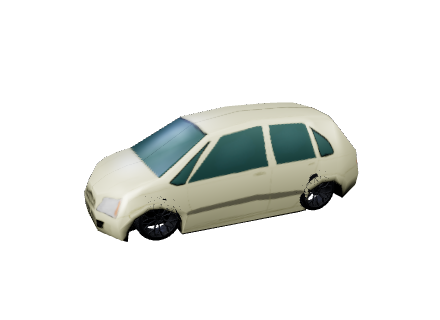
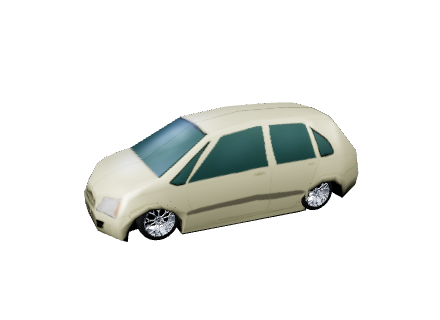
feat(3d): jantes gris métallique + meilleur placement des roues (par extrémités)
Jantes : la roue (un seul mesh) est découpée en 2 groupes par distance radiale
(pneu = anneau extérieur, jante = disque central) -> 2 matériaux : pneu noir mat +
jante gris métallique brillante (metalness 0.9). Fait à la volée dans addWheels
(aperçu pos-car3d + hub hud3d-map).

Placement : les roues sont désormais calées par rapport aux EXTRÉMITÉS de la
carrosserie (inset 19% depuis l'avant et l'arrière) au lieu d'un empattement
symétrique depuis le centre -> gère les porte-à-faux asymétriques (compactes
cab-forward où la roue avant débordait). Rayon réduit à ~7% de la longueur.

Réglé et vérifié par captures d'écran d'un simulateur fidèle (SUV / berline /
compacte / citadine) : roues bien dimensionnées, dans les passages, jantes grises.
Vignettes des 16 régénérées. Pipeline app testé : 0 erreur.

Changed region(s): [[0.2955, 0.625, 0.4136, 0.75], [0.6795, 0.5312, 0.7682, 0.6562]]

diff --git a/public/pos/pos-car3d.js b/public/pos/pos-car3d.js
@@ -411,25 +411,44 @@
        les GLB normalisés qui portent une rotation (uprightCar), on passe un wrapper
        SANS rotation comme target -> sinon les positions calculées en repère monde
        sont décalées par la rotation et les roues « flottent » à côté. */
+    /* sépare la roue (un seul mesh) en 2 groupes : pneu (rayon élevé) + jante (rayon
+       faible), pour appliquer 2 matériaux (pneu noir mat / jante gris métallique). */
+    function splitWheelGeom(geom) {
+      geom = geom.index ? geom : geom.toNonIndexed();
+      var pos = geom.attributes.position, idx = geom.index;
+      if (!idx) { var ai = []; for (var i0 = 0; i0 < pos.count; i0++) ai.push(i0); geom.setIndex(ai); idx = geom.index; }
+      var maxR = 0; for (var i = 0; i < pos.count; i++) { var y = pos.getY(i), z = pos.getZ(i); var rr = Math.sqrt(y * y + z * z); if (rr > maxR) maxR = rr; }
+      var thr = maxR * 0.74, arr = idx.array, tire = [], rim = [];
+      for (var t = 0; t < arr.length; t += 3) {
+        var A = arr[t], B = arr[t + 1], C = arr[t + 2];
+        var my = (pos.getY(A) + pos.getY(B) + pos.getY(C)) / 3, mz = (pos.getZ(A) + pos.getZ(B) + pos.getZ(C)) / 3;
+        if (Math.sqrt(my * my + mz * mz) >= thr) tire.push(A, B, C); else rim.push(A, B, C);
+      }
+      geom.setIndex(tire.concat(rim)); geom.clearGroups();
+      geom.addGroup(0, tire.length, 0); geom.addGroup(tire.length, rim.length, 1);
+      return geom;
+    }
     function addWheels(model, target) {
       target = target || model;
       model.updateMatrixWorld(true);
       var b = new THREE.Box3().setFromObject(model), s = b.getSize(new THREE.Vector3()), c = b.getCenter(new THREE.Vector3());
-      var r = Math.min(s.y * 0.42, s.z * 0.080), wx = s.x * 0.42, wz = s.z * 0.31;  // rayon ~8% de la longueur (cap hauteur) -> roues calées dans les passages
-      var mat = track(new THREE.MeshStandardMaterial({ color: 0x15171c, roughness: 0.5, metalness: 0.55, side: THREE.DoubleSide }));
-      var slots = [[-wx, wz], [wx, wz], [-wx, -wz], [wx, -wz]];
+      var r = Math.min(s.y * 0.42, s.z * 0.072), wx = s.x * 0.42, IN = 0.19;         // rayon ~7% de la longueur
+      var fz = b.max.z - IN * s.z, rz = b.min.z + IN * s.z;                          // roues calées depuis les EXTRÉMITÉS (porte-à-faux asymétriques)
+      var tireMat = track(new THREE.MeshStandardMaterial({ color: 0x0e0f12, roughness: 0.85, metalness: 0.2, side: THREE.DoubleSide }));
+      var rimMat = track(new THREE.MeshStandardMaterial({ color: 0xb9bfc9, roughness: 0.35, metalness: 0.9, envMapIntensity: 1.2, side: THREE.DoubleSide })); // jante gris métallique
+      var slots = [[-wx, fz], [wx, fz], [-wx, rz], [wx, rz]];
       loadWheelProto().then(function (proto) {
         slots.forEach(function (p) {
           var w = proto.clone(true);
-          w.traverse(function (o) { if (o.isMesh) { o.geometry = o.geometry.clone(); track(o.geometry); o.material = mat; } });
+          w.traverse(function (o) { if (o.isMesh) { o.geometry = splitWheelGeom(o.geometry.clone()); track(o.geometry); o.material = [tireMat, rimMat]; } });
           w.scale.setScalar(2 * r);                    // GLB diamètre 1 -> diamètre 2r ; axe déjà sur X
           w.rotation.y = p[0] < 0 ? Math.PI : 0;        // jante vers l'extérieur des deux côtés
-          w.position.set(c.x + p[0], b.min.y + r, c.z + p[1]); target.add(w);
+          w.position.set(c.x + p[0], b.min.y + r, p[1]); target.add(w);   // p[1] = z absolu (repère bbox)
         });
         if (visible && renderer && scene && camera) renderer.render(scene, camera);
       }).catch(function () {                            // repli : cylindres
         var geo = track(new THREE.CylinderGeometry(r, r, s.x * 0.16, 18));
-        slots.forEach(function (p) { var w = new THREE.Mesh(geo, mat); w.rotation.z = Math.PI / 2; w.position.set(c.x + p[0], b.min.y + r, c.z + p[1]); target.add(w); });
+        slots.forEach(function (p) { var w = new THREE.Mesh(geo, rimMat); w.rotation.z = Math.PI / 2; w.position.set(c.x + p[0], b.min.y + r, p[1]); target.add(w); });
       });
     }
     function loadAvatar(url, opts) {

diff --git a/public/hud3d-map.html b/public/hud3d-map.html
@@ -2141,26 +2141,42 @@ var CAR_GLB_URL = 'car-real.glb';   // Maybach Blender glTF (vrais materiaux/pei
       .then(function(m){ return new Promise(function(res,rej){ new m.GLTFLoader().load('/models/wheel.glb', function(g){ res(g.scene); }, undefined, rej); }); });
     return __wheelProto;
   }
+  /* sépare la roue (un seul mesh) en pneu (rayon élevé) + jante (rayon faible) -> 2 matériaux */
+  function splitWheelGeom(geom){
+    geom = geom.index ? geom : geom.toNonIndexed();
+    var pos=geom.attributes.position, idx=geom.index;
+    if(!idx){ var ai=[]; for(var i0=0;i0<pos.count;i0++)ai.push(i0); geom.setIndex(ai); idx=geom.index; }
+    var maxR=0; for(var i=0;i<pos.count;i++){ var y=pos.getY(i),z=pos.getZ(i); var rr=Math.sqrt(y*y+z*z); if(rr>maxR)maxR=rr; }
+    var thr=maxR*0.74, arr=idx.array, tire=[], rim=[];
+    for(var t=0;t<arr.length;t+=3){ var A=arr[t],B=arr[t+1],C=arr[t+2];
+      var my=(pos.getY(A)+pos.getY(B)+pos.getY(C))/3, mz=(pos.getZ(A)+pos.getZ(B)+pos.getZ(C))/3;
+      if(Math.sqrt(my*my+mz*mz)>=thr) tire.push(A,B,C); else rim.push(A,B,C); }
+    geom.setIndex(tire.concat(rim)); geom.clearGroups();
+    geom.addGroup(0,tire.length,0); geom.addGroup(tire.length,rim.length,1);
+    return geom;
+  }
   /* les voitures du kit n'ont que la carrosserie -> on ajoute 4 roues dans les passages */
   function addWheels(model, T, target){
     target = target || model;                       // dimensionne d'après model, ajoute à target (wrapper sans rotation)
     model.updateMatrixWorld(true);
     var b=new T.Box3().setFromObject(model), s=b.getSize(new T.Vector3()), c=b.getCenter(new T.Vector3());
-    var r=Math.min(s.y*0.42, s.z*0.080), wx=s.x*0.42, wz=s.z*0.31;  // rayon ~8% de la longueur (cap hauteur) -> roues calées dans les passages
-    var mat=new T.MeshStandardMaterial({color:0x15171c, roughness:0.5, metalness:0.55, side:T.DoubleSide});
-    var slots=[[-wx,wz],[wx,wz],[-wx,-wz],[wx,-wz]];
+    var r=Math.min(s.y*0.42, s.z*0.072), wx=s.x*0.42, IN=0.19;      // rayon ~7% de la longueur
+    var fz=b.max.z-IN*s.z, rz=b.min.z+IN*s.z;                       // roues calées depuis les EXTRÉMITÉS
+    var tireMat=new T.MeshStandardMaterial({color:0x0e0f12, roughness:0.85, metalness:0.2, side:T.DoubleSide});
+    var rimMat=new T.MeshStandardMaterial({color:0xb9bfc9, roughness:0.35, metalness:0.9, envMapIntensity:1.2, side:T.DoubleSide}); // jante gris métallique
+    var slots=[[-wx,fz],[wx,fz],[-wx,rz],[wx,rz]];
     loadWheelProto().then(function(proto){
       slots.forEach(function(p){
         var w=proto.clone(true);
-        w.traverse(function(o){ if(o.isMesh) o.material=mat; });
+        w.traverse(function(o){ if(o.isMesh){ o.geometry=splitWheelGeom(o.geometry.clone()); o.material=[tireMat,rimMat]; } });
         w.scale.setScalar(2*r);                    // GLB diamètre 1 -> diamètre 2r ; axe déjà sur X
         w.rotation.y = p[0]<0 ? Math.PI : 0;        // jante vers l'extérieur des deux côtés
-        w.position.set(c.x+p[0], b.min.y+r, c.z+p[1]);
+        w.position.set(c.x+p[0], b.min.y+r, p[1]);  // p[1] = z absolu (repère bbox)
         target.add(w);
       });
     }).catch(function(){                            // repli : cylindres si le GLB échoue
       var geo=new T.CylinderGeometry(r,r,s.x*0.16,18);
-      slots.forEach(function(p){ var w=new T.Mesh(geo,mat); w.rotation.z=Math.PI/2; w.position.set(c.x+p[0], b.min.y+r, c.z+p[1]); target.add(w); });
+      slots.forEach(function(p){ var w=new T.Mesh(geo,rimMat); w.rotation.z=Math.PI/2; w.position.set(c.x+p[0], b.min.y+r, p[1]); target.add(w); });
     });
   }
 
